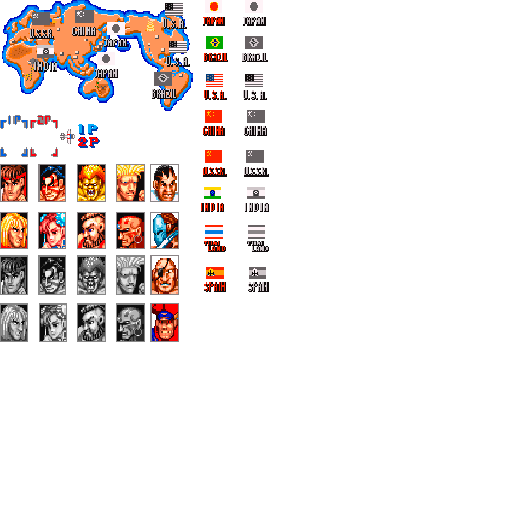
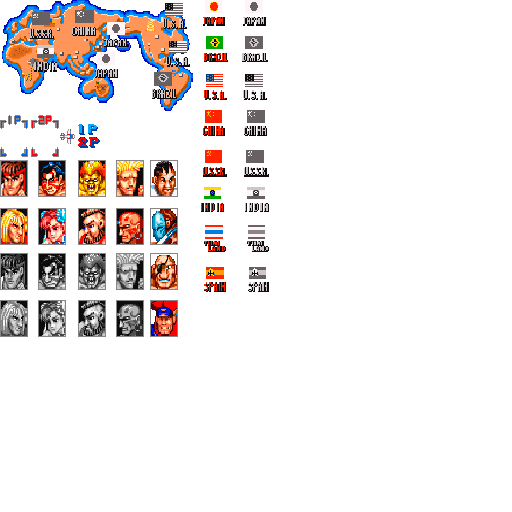
Update Character Selection Sheet and minium changes in the screen

Changed region(s): [[0.0, 0.2812, 0.375, 0.6875], [0.0, 0.2188, 0.125, 0.25]]

diff --git a/ModuleChSelection.cpp b/ModuleChSelection.cpp
@@ -13,75 +13,6 @@
 
 ModuleChSelection::ModuleChSelection()
 {
-	map.x = 0;
-	map.y = 0;
-	map.w = 192;
-	map.h = 112;
-
-	title.x = 77;
-	title.y = 131;
-	title.w = 95;
-	title.h = 11;
-
-	thailandFlag.x = 204;
-	thailandFlag.y = 225;
-	thailandFlag.w = 22;
-	thailandFlag.h = 27;
-
-	player1Cursor.x = 0;
-	player1Cursor.y = 115;
-	player1Cursor.w = 28;
-	player1Cursor.h = 42;
-
-	player2Cursor.x = 28;
-	player2Cursor.y = 115;
-	player2Cursor.w = 28;
-	player2Cursor.h = 42;
-
-	airplane.x = 60;
-	airplane.y = 129;
-	airplane.w = 15;
-	airplane.h = 15;
-
-	ryuFace.x = 0;
-	ryuFace.y = 256;
-	ryuFace.w = 28;
-	ryuFace.h = 40;
-
-	hondaFace.x = 38;
-	hondaFace.y = 164;
-	hondaFace.w = 28;
-	hondaFace.h = 38;
-
-	blankaFace.x = 77;
-	blankaFace.y = 164;
-	blankaFace.w = 28;
-	blankaFace.h = 38;
-
-	guileFace.x = 116;
-	guileFace.y = 164;
-	guileFace.w = 28;
-	guileFace.h = 38;
-
-	kenFace.x = 0;
-	kenFace.y = 392;
-	kenFace.w = 28;
-	kenFace.h = 38;
-
-	chunLiFace.x = 38;
-	chunLiFace.y = 392;
-	chunLiFace.w = 28;
-	chunLiFace.h = 38;
-
-	zangiefFace.x = 94;
-	zangiefFace.y = 392;
-	zangiefFace.w = 28;
-	zangiefFace.h = 38;
-
-	dhalsimFace.x = 141;
-	dhalsimFace.y = 280;
-	dhalsimFace.w = 28;
-	dhalsimFace.h = 38;
 }
 
 ModuleChSelection::~ModuleChSelection()
@@ -95,6 +26,82 @@ bool ModuleChSelection::Start()
 	graphics = App->textures->Load("assets/images/ui/character_selection2.png");
 
 	App->render->camera.x = App->render->camera.y = 0;
+
+#pragma region Read Sprites
+
+	map.x = 0;
+	map.y = 0;
+	map.w = 192;
+	map.h = 112;
+
+	thailandFlag.x = 204;
+	thailandFlag.y = 225;
+	thailandFlag.w = 22;
+	thailandFlag.h = 27;
+
+	player1Cursor.x = 0;
+	player1Cursor.y = 115;
+	player1Cursor.w = 28;
+	player1Cursor.h = 42;
+
+	player2Cursor.x = 31;
+	player2Cursor.y = 115;
+	player2Cursor.w = 28;
+	player2Cursor.h = 42;
+
+	airplane.x = 60;
+	airplane.y = 129;
+	airplane.w = 15;
+	airplane.h = 15;
+
+	ryuFace.x = 0;
+	ryuFace.y = 253;
+	ryuFace.w = 28;
+	ryuFace.h = 37;
+
+	hondaFace.x = 38;
+	hondaFace.y = 253;
+	hondaFace.w = 28;
+	hondaFace.h = 37;
+
+	blankaFace.x = 78;
+	blankaFace.y = 253;
+	blankaFace.w = 28;
+	blankaFace.h = 37;
+
+	guileFace.x = 116;
+	guileFace.y = 253;
+	guileFace.w = 28;
+	guileFace.h = 37;
+
+	kenFace.x = 0;
+	kenFace.y = 300;
+	kenFace.w = 28;
+	kenFace.h = 37;
+
+	chunLiFace.x = 38;
+	chunLiFace.y = 300;
+	chunLiFace.w = 28;
+	chunLiFace.h = 37;
+
+	zangiefFace.x = 78;
+	zangiefFace.y = 300;
+	zangiefFace.w = 28;
+	zangiefFace.h = 37;
+
+	dhalsimFace.x = 116;
+	dhalsimFace.y = 208;
+	dhalsimFace.w = 28;
+	dhalsimFace.h = 37;
+
+	player1Position.x = SCREEN_WIDTH / 2 + 24;
+	player1Position.y = SCREEN_HEIGHT / 2 + 62;
+
+	player2Position.x = SCREEN_WIDTH / 2 - 60;
+	player2Position.y = SCREEN_HEIGHT / 2 + 62;
+
+#pragma endregion
+
 
 	return ret;
 }
@@ -114,14 +121,41 @@ update_status ModuleChSelection::Update()
 {
 	SDL_SetRenderDrawColor(App->render->renderer, 0, 0, 121, 255);
 
-	App->render->Blit(graphics, SCREEN_WIDTH / 2 - title.w / 2, 10, &title, false);
-	App->render->Blit(graphics, SCREEN_WIDTH / 2 - map.w / 2, 25, &map, false);
-	App->render->Blit(graphics, 25, 25, &thailandFlag, false);
+	if (timeSelector < App->frames) {
+		lettersOn = !lettersOn;
 
-
-
-	if (App->input->keyboard[SDL_SCANCODE_SPACE] == 1) {
-		App->fade->FadeToBlack(this, (Module*)App->vsScreen, 2);
+		timeSelector = App->frames + 30;
 	}
+
+
+
+
+
+
+	App->render->Blit(graphics, SCREEN_WIDTH / 2 - map.w / 2, 18, &map, false);
+	App->render->Blit(graphics, 165, 80, &thailandFlag, false);
+
+
+	//Panel
+	App->render->Blit(graphics, SCREEN_WIDTH / 2 - 60, SCREEN_HEIGHT / 2 + 30, &ryuFace, false);
+	App->render->Blit(graphics, SCREEN_WIDTH / 2 - 32, SCREEN_HEIGHT / 2 + 30, &hondaFace, false);
+	App->render->Blit(graphics, SCREEN_WIDTH / 2 - 4, SCREEN_HEIGHT / 2 + 30, &blankaFace, false);
+	App->render->Blit(graphics, SCREEN_WIDTH / 2 + 24, SCREEN_HEIGHT / 2 + 30, &guileFace, false);
+	App->render->Blit(graphics, SCREEN_WIDTH / 2 - 60, SCREEN_HEIGHT / 2 + 67, &kenFace, false);
+	App->render->Blit(graphics, SCREEN_WIDTH / 2 - 32, SCREEN_HEIGHT / 2 + 67, &chunLiFace, false);
+	App->render->Blit(graphics, SCREEN_WIDTH / 2 - 4, SCREEN_HEIGHT / 2 + 67, &zangiefFace, false);
+	App->render->Blit(graphics, SCREEN_WIDTH / 2 + 24, SCREEN_HEIGHT / 2 + 67, &dhalsimFace, false);
+	//
+
+	if (lettersOn) {
+		App->render->Blit(graphics, player1Position.x, player1Position.y, &player1Cursor, false);
+		App->render->Blit(graphics, player2Position.x, player2Position.y, &player2Cursor, false);
+	}
+
+
+	if (App->input->keyboard[SDL_SCANCODE_SPACE] == 1)
+		App->fade->FadeToBlack(this, (Module*)App->vsScreen, 2);
+
+
 	return UPDATE_CONTINUE;
 }

diff --git a/ModuleChSelection.h b/ModuleChSelection.h
@@ -20,8 +20,10 @@ public:
 public:
 	SDL_Texture* graphics = nullptr;
 	SDL_Rect map;
-	SDL_Rect title;
 	SDL_Rect thailandFlag;
+
+	Uint32 timeSelector;
+	bool lettersOn;
 	
 	SDL_Rect player1Cursor;
 	iPoint player1Position;
